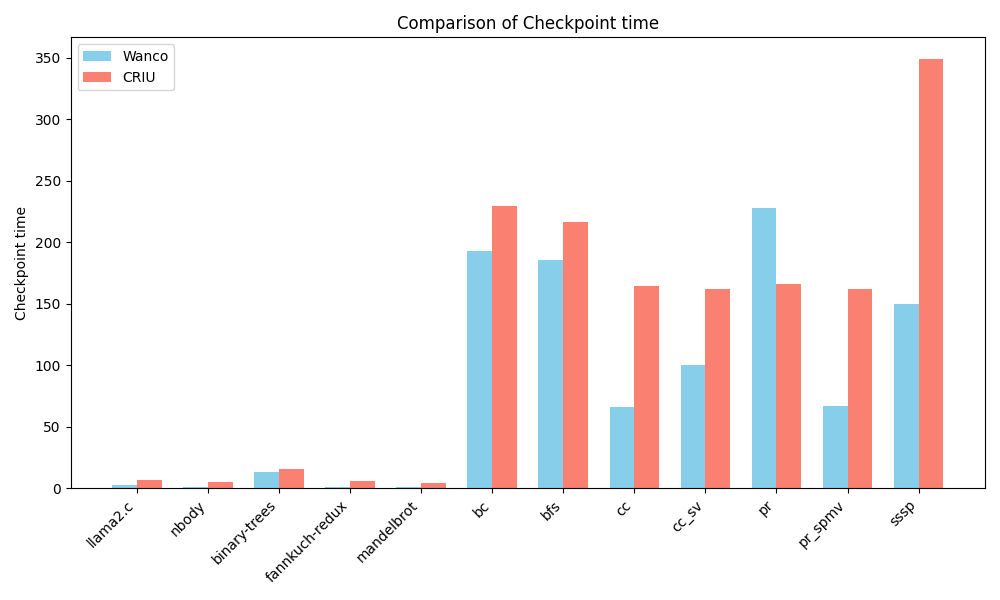
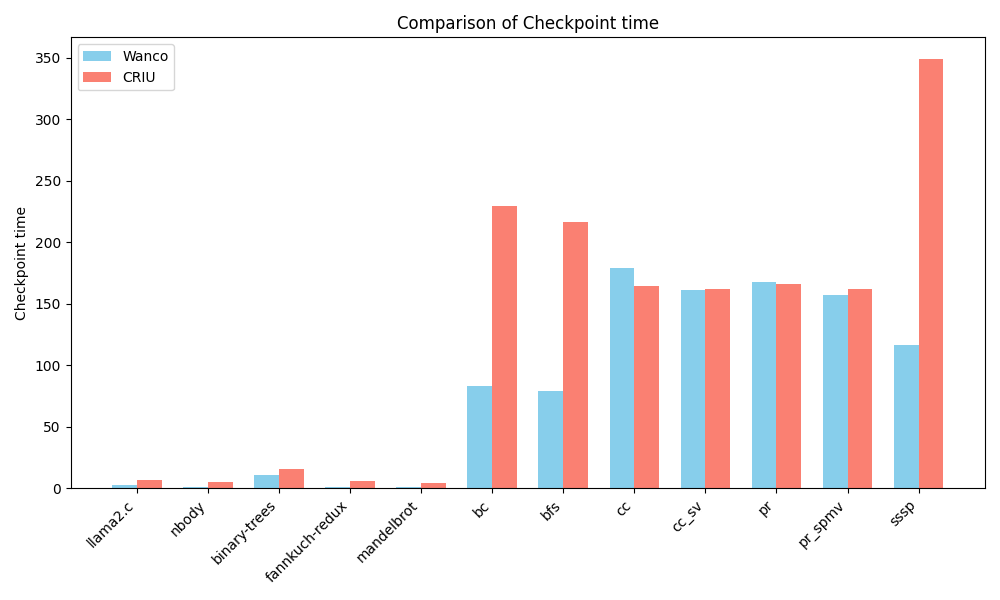
update benchmark scripts

diff --git a/benchmark/scripts/exec-time.py b/benchmark/scripts/exec-time.py
@@ -1,12 +1,10 @@
-#!/bin/python3
-import os
 import subprocess
 from dataclasses import dataclass
 import argparse
 from typing import Any
 from common import *
 
-NUM_RUNS = 5
+NUM_RUNS = 10
 
 
 def measure(programs: list[Program], args: Any) -> None:

diff --git a/benchmark/scripts/chkpt-restore-wasm.py b/benchmark/scripts/chkpt-restore-wasm.py
@@ -5,7 +5,7 @@ from common import *
 import pandas as pd
 import json
 
-NUM_RUNS = 1
+NUM_RUNS = 10
 
 data: Dict[str, list[float | int | str]] = {
     # program name

diff --git a/benchmark/scripts/plot-wasm-vs-criu.py b/benchmark/scripts/plot-wasm-vs-criu.py
@@ -1,7 +1,6 @@
 import pandas as pd
 import matplotlib.pyplot as plt
 import argparse
-import os
 
 
 def load_and_aggregate(csv_path) -> pd.DataFrame:

diff --git a/benchmark/scripts/chkpt-restore-criu.py b/benchmark/scripts/chkpt-restore-criu.py
@@ -6,7 +6,7 @@ from common import *
 import pandas as pd
 import json
 
-NUM_RUNS = 1
+NUM_RUNS = 10
 
 CHECKPOINT_DIR = "checkpoint"
 

diff --git a/benchmark/README.md b/benchmark/README.md
@@ -11,22 +11,29 @@ sudo add-apt-repository ppa:criu/ppa
 sudo apt install criu
 
 cd benchmark
-# build the benchmark programs
+# build the all benchmarks
 make all
+# Run as root because CRIU requires root privileges
+sudo env "PATH=$PATH" ./scripts/run-all-bench.sh
+```
 
+
+## Run individual benchmarks manually
+
+```
 # measure execution time
 uv run ./scripts/exec-time.py
 # calculate the overhead of the execution time and output to JSON
-uv run ./scripts/rewriter.py result.json --output overhead.json
+uv run ./scripts/rewriter.py result.json --output ./results/overhead.json
 # generate whisker plots from overhead.json
-uv run ./scripts/whisker-overhead.py overhead.json -o overhead.jpg
+uv run ./scripts/whisker-overhead.py ./results/overhead.json -o ./results/overhead.jpg
 
 # measure checkpoint and restore time, snapshot size
 # overhead.json is required to get the half elapsed time of the execution time
-uv run scripts/chkpt-restore-wasm.py overhead.json
+uv run scripts/chkpt-restore-wasm.py ./results/overhead.json -o ./results/chkpt-restore-wasm.csv
 
 # measure checkpoint and restore time, snapshot size with CRIU (for comparison)
-sudo uv run scripts/chkpt-restore-criu.py overhead.json
+sudo uv run scripts/chkpt-restore-criu.py ./results/overhead.json -o ./results/chkpt-restore-criu.csv
 
 # Plot comparison of CRIU and WASM (checkpoting and restoring time, snapshot size)
 uv run scripts/plot-wasm-vs-criu.py results/chkpt-restore-wasm.csv results/chkpt-restore-criu.csv
